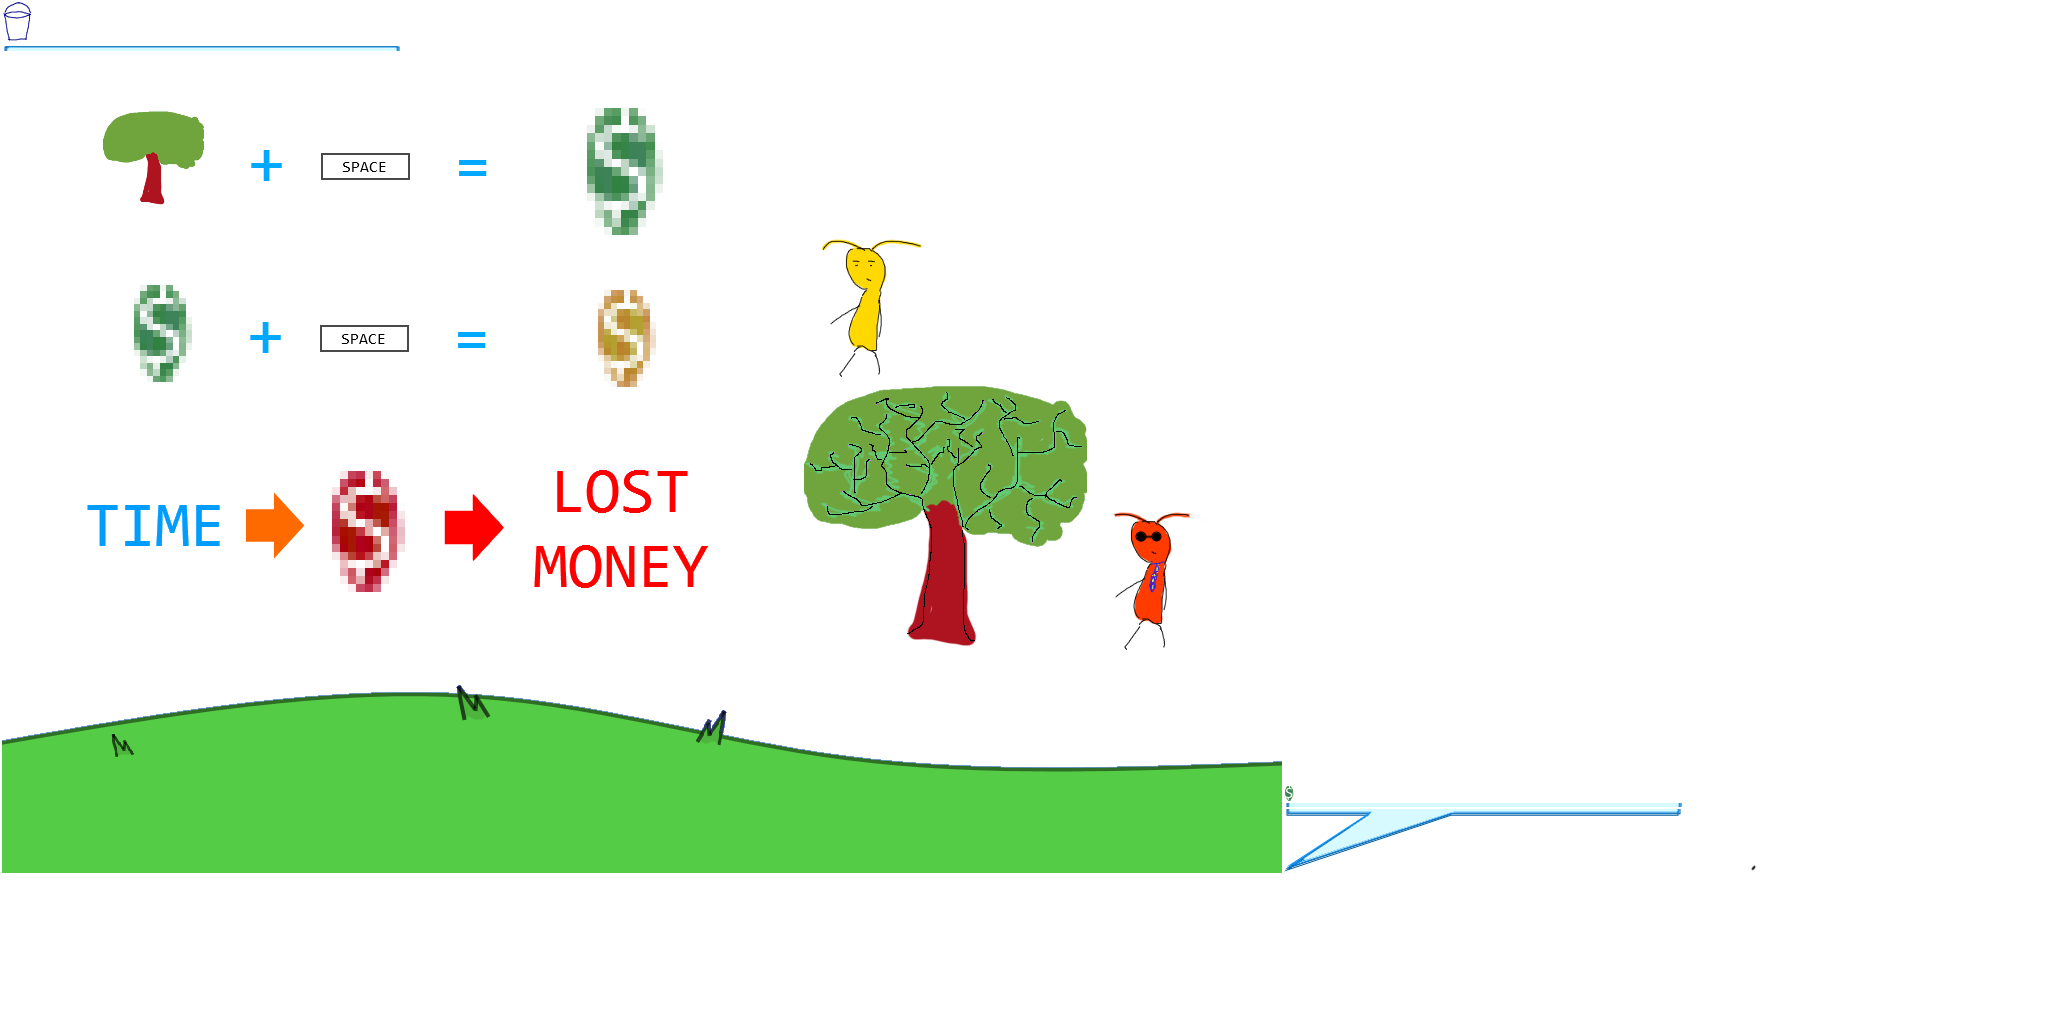
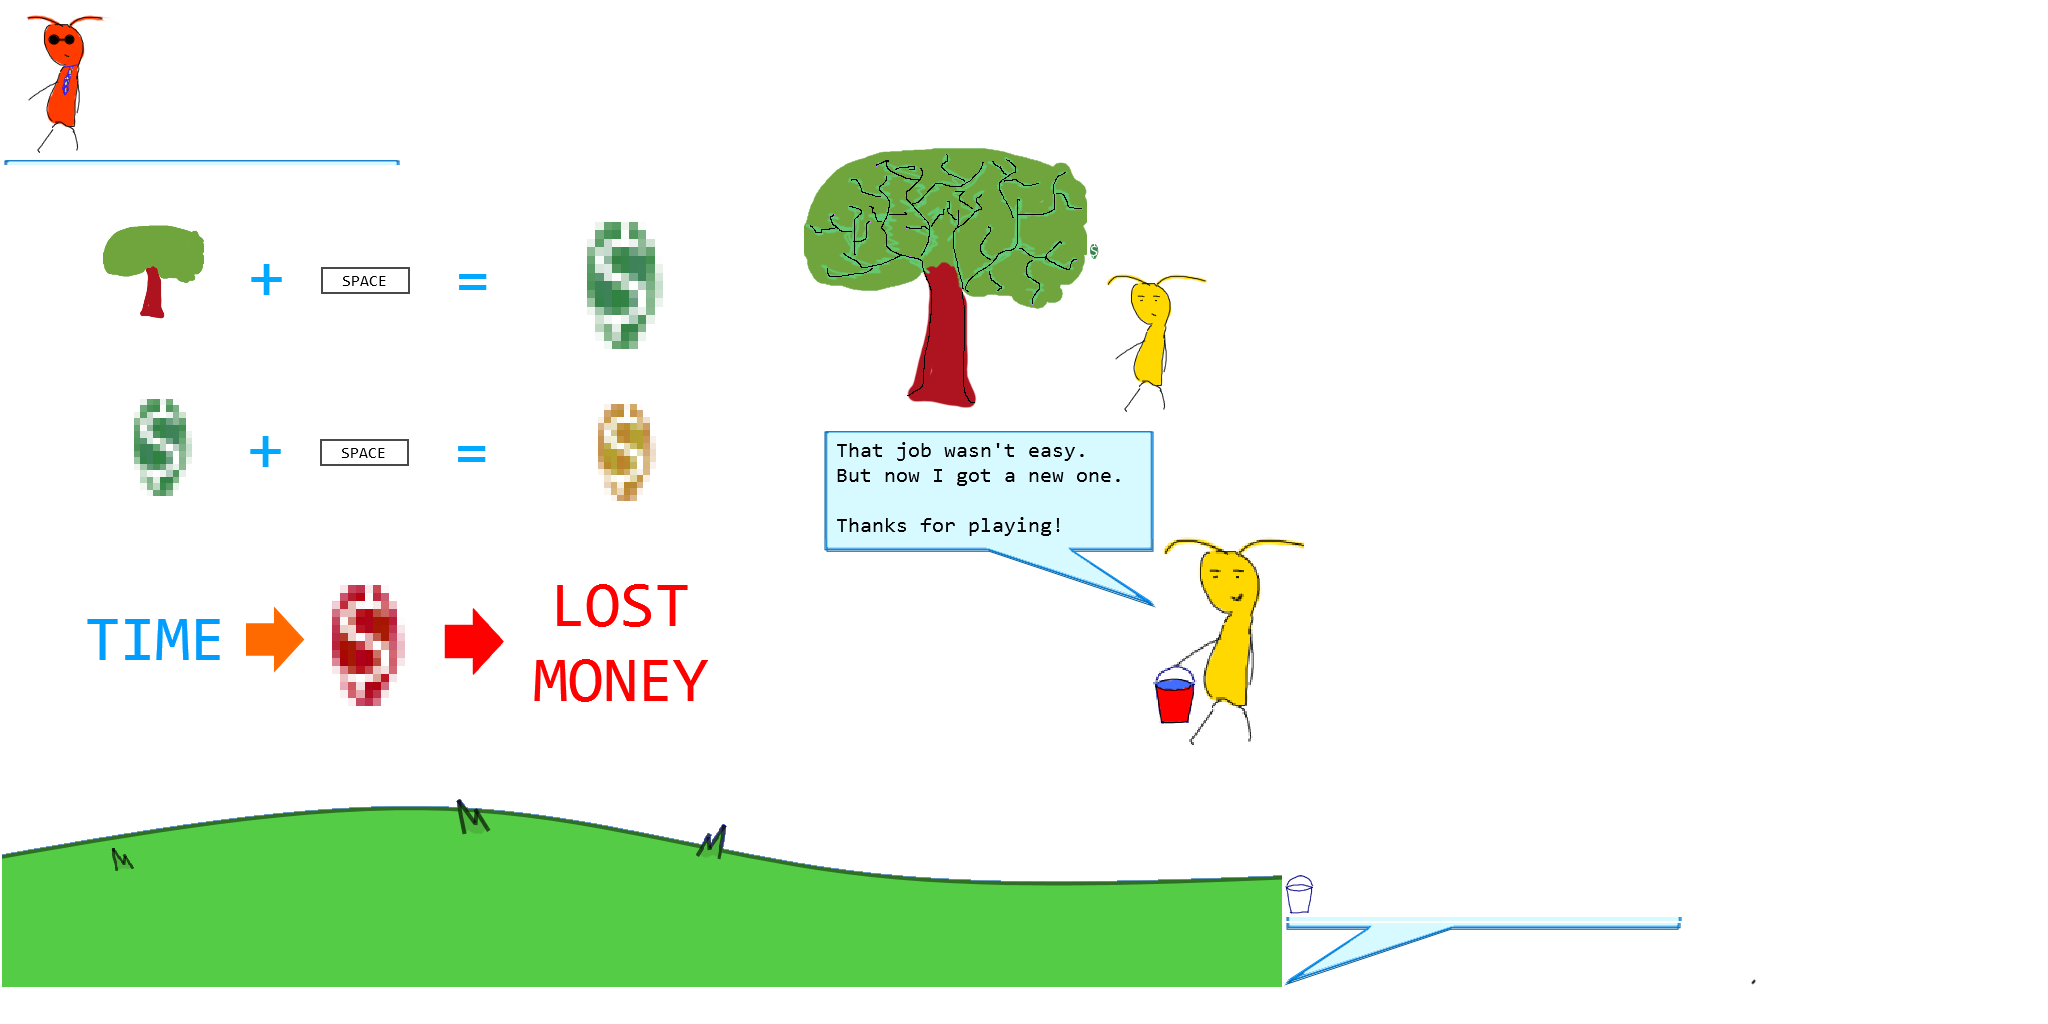
Thanks for playing!

diff --git a/core/src/net/namekdev/growing_love_garden/screen/WonGameScreen.java b/core/src/net/namekdev/growing_love_garden/screen/WonGameScreen.java
@@ -1,12 +1,57 @@
 package net.namekdev.growing_love_garden.screen;
 
+import net.namekdev.growing_love_garden.MyGardenLoveGame;
+import net.namekdev.growing_love_garden.enums.C;
+import net.namekdev.growing_love_garden.utils.ActionTimer;
+import net.namekdev.growing_love_garden.utils.ActionTimer.TimerState;
+
+import com.badlogic.gdx.Gdx;
+import com.badlogic.gdx.Input;
+import com.badlogic.gdx.Input.Keys;
+import com.badlogic.gdx.graphics.GL20;
+import com.badlogic.gdx.graphics.glutils.ShapeRenderer.ShapeType;
+
 public class WonGameScreen extends BaseScreen<WonGameScreen> {
+	ActionTimer waitTimer = new ActionTimer(C.ThanksMinDuration);
+	boolean wasQueuedToNextScreen = false;
+	Runnable callbackExit;
 	
 	
+	public WonGameScreen(Runnable callbackExit) {
+		this.callbackExit = callbackExit;
+	}
+
+	@Override
+	public WonGameScreen init(MyGardenLoveGame game) {
+		waitTimer.start();
+		return super.init(game);
+	}
+
 	@Override
 	public void render(float delta) {
-		darkenBackground();
+		Gdx.gl.glEnable(GL20.GL_BLEND);
+		shapes.begin(ShapeType.Filled);
+		shapes.setColor(0, 0.4f, 0, 0.95f);
+		shapes.rect(0, 0, sw(), sh());
+		shapes.end();
 		
+		batch.begin();
+		float w = assets.thanks.getRegionWidth();
+		float h = assets.thanks.getRegionHeight();
+		batch.draw(assets.thanks, (sw()-w)/2, (sh()-h)/2);
+		batch.end();
+		
+		if (waitTimer.update(delta) != TimerState.Active) {
+			if (wasQueuedToNextScreen) {
+				popScreen();
+				callbackExit.run();
+			}
+		}
+		
+		final Input i = Gdx.input;
+		if (i.isKeyJustPressed(Keys.SPACE) || i.isKeyJustPressed(Keys.ENTER) || i.isTouched()) {
+			wasQueuedToNextScreen = true;
+		}
 	}
 
 }

diff --git a/core/src/net/namekdev/growing_love_garden/Assets.java b/core/src/net/namekdev/growing_love_garden/Assets.java
@@ -17,6 +17,7 @@ public class Assets {
 	public TextureRegion jayTex, bucketTex;
 	public TextureRegion manager, smile;
 	public TextureRegion chatTop, chatMiddle, chatBottom;
+	public TextureRegion thanks;
 
 
 	public void loadAll() {
@@ -36,5 +37,6 @@ public class Assets {
 		chatTop = textures.findRegion("chat_top");
 		chatMiddle = textures.findRegion("chat_middle");
 		chatBottom = textures.findRegion("chat_bottom");
+		thanks = textures.findRegion("thanks");
 	}
 }

diff --git a/core/src/net/namekdev/growing_love_garden/MyGardenLoveGame.java b/core/src/net/namekdev/growing_love_garden/MyGardenLoveGame.java
@@ -6,6 +6,7 @@ import net.namekdev.growing_love_garden.screen.BaseScreen;
 import net.namekdev.growing_love_garden.screen.GameScreen;
 import net.namekdev.growing_love_garden.screen.InstructionScreen;
 import net.namekdev.growing_love_garden.screen.TalkScreen;
+import net.namekdev.growing_love_garden.screen.WonGameScreen;
 import net.namekdev.growing_love_garden.story.Talks;
 import net.namekdev.growing_love_garden.system.*;
 

diff --git a/core/src/net/namekdev/growing_love_garden/enums/C.java b/core/src/net/namekdev/growing_love_garden/enums/C.java
@@ -77,4 +77,6 @@ public interface C {
 		public static final int[] Goal = new int[] { 1000, 10000, 23000, 35000 };
 		public static final float[] YearProgressingSpeed = new float[] { 0.09f, 0.006f, 0.0025f, 0.0017f };
 	}
+	
+	public static final float ThanksMinDuration = 5f;//secs
 }

diff --git a/core/src/net/namekdev/growing_love_garden/screen/GameScreen.java b/core/src/net/namekdev/growing_love_garden/screen/GameScreen.java
@@ -149,7 +149,7 @@ public class GameScreen extends BaseScreen<GameScreen> {
 	
 	private Runnable showWinScreen = new Runnable() {
 		public void run() {
-			game.pushScreen(new WonGameScreen().init(game));
+			game.pushScreen(new WonGameScreen(setFirstLevel).init(game));
 		}
 	};
 }
